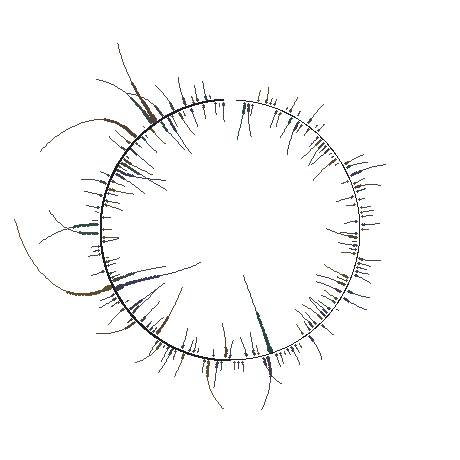
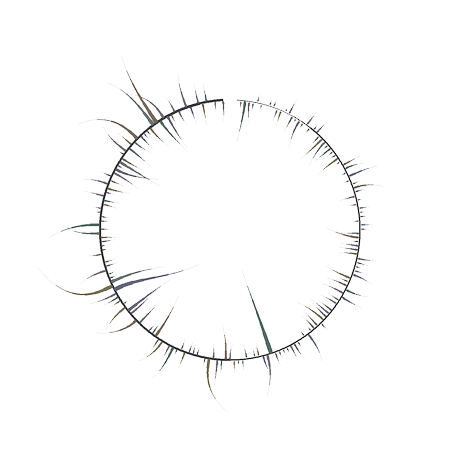
Refresh pipeline-strip colourway glyphs (ps/pmag/pm) with the v9 codec
The step-02 "choose a design" swatches show one message in four colourways;
the semantic swatch already uses the refreshed g6. Re-render the signed,
magnitude and muted swatches from the SAME message + 192-dim geometry with the
v9 codec (anti-aliased + brightness), so all four swatches are the same glyph
in four colourways. Add ?v=4 so browsers refetch.

Claude-Session: https://claude.ai/code/session_019SA9tTx9JUW8atx3a4hjPQ

Changed region(s): [[0.1217, 0.1522, 0.8217, 0.8522], [0.1217, 0.6087, 0.1522, 0.6391]]

diff --git a/index.html b/index.html
@@ -239,10 +239,10 @@
           <p>The same message, four colourways. Pick the one that fits the piece.</p>
           <div class="scene">
             <div class="swatches">
-              <div class="plate sel"><img src="assets/ps.png" alt="signed colourway"></div>
-              <div class="plate sm"><img src="assets/pmag.png" alt="magnitude colourway"></div>
+              <div class="plate sel"><img src="assets/ps.png?v=4" alt="signed colourway"></div>
+              <div class="plate sm"><img src="assets/pmag.png?v=4" alt="magnitude colourway"></div>
               <div class="plate sm"><img src="assets/g6.png?v=4" alt="semantic colourway"></div>
-              <div class="plate sm"><img src="assets/pm.png" alt="muted colourway"></div>
+              <div class="plate sm"><img src="assets/pm.png?v=4" alt="muted colourway"></div>
             </div>
           </div>
         </div>
@@ -255,7 +255,7 @@
                 <path d="M100 20 C88 20 80 24 74 29 L44 45 C38 48 36 55 39 61 L47 76 C49 80 54 81 58 78 L64 74 L64 168 C64 173 68 177 73 177 L127 177 C132 177 136 173 136 168 L136 74 L142 78 C146 81 151 80 153 76 L161 61 C164 55 162 48 156 45 L126 29 C120 24 112 20 100 20 Z" fill="#C6CBD3" stroke="#8C95A0" stroke-width="1.5"/>
                 <path d="M86 23 C92 33 108 33 114 23" fill="none" stroke="#8C95A0" stroke-width="1.5"/>
               </svg>
-              <img src="assets/ps.png" alt="">
+              <img src="assets/ps.png?v=4" alt="">
             </div>
           </div>
         </div>
@@ -266,7 +266,7 @@
             <div class="phone">
               <div class="screen">
                 <div class="scan">
-                  <img src="assets/ps.png" alt="">
+                  <img src="assets/ps.png?v=4" alt="">
                   <span class="cnr tl"></span><span class="cnr tr"></span><span class="cnr bl"></span><span class="cnr br"></span>
                 </div>
                 <div class="decode">&ldquo;ideas are catching — pass them on.&rdquo;</div>
